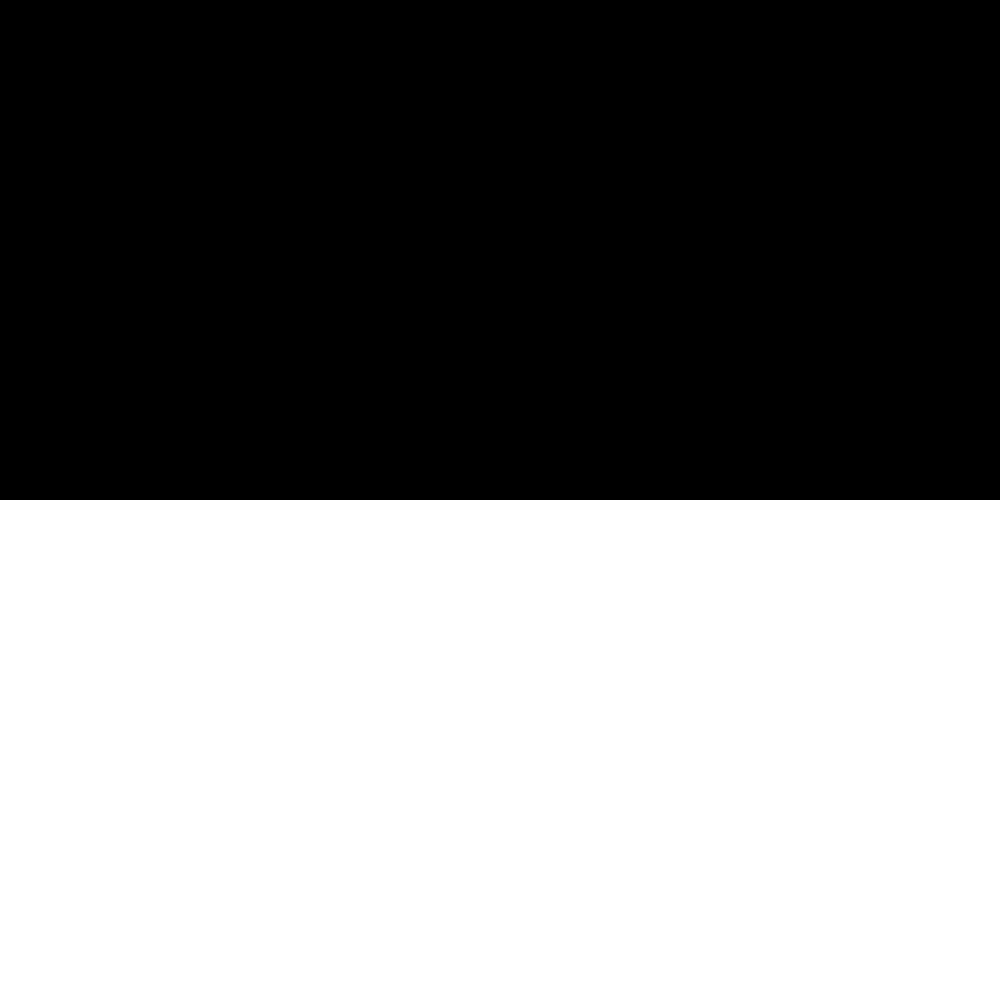
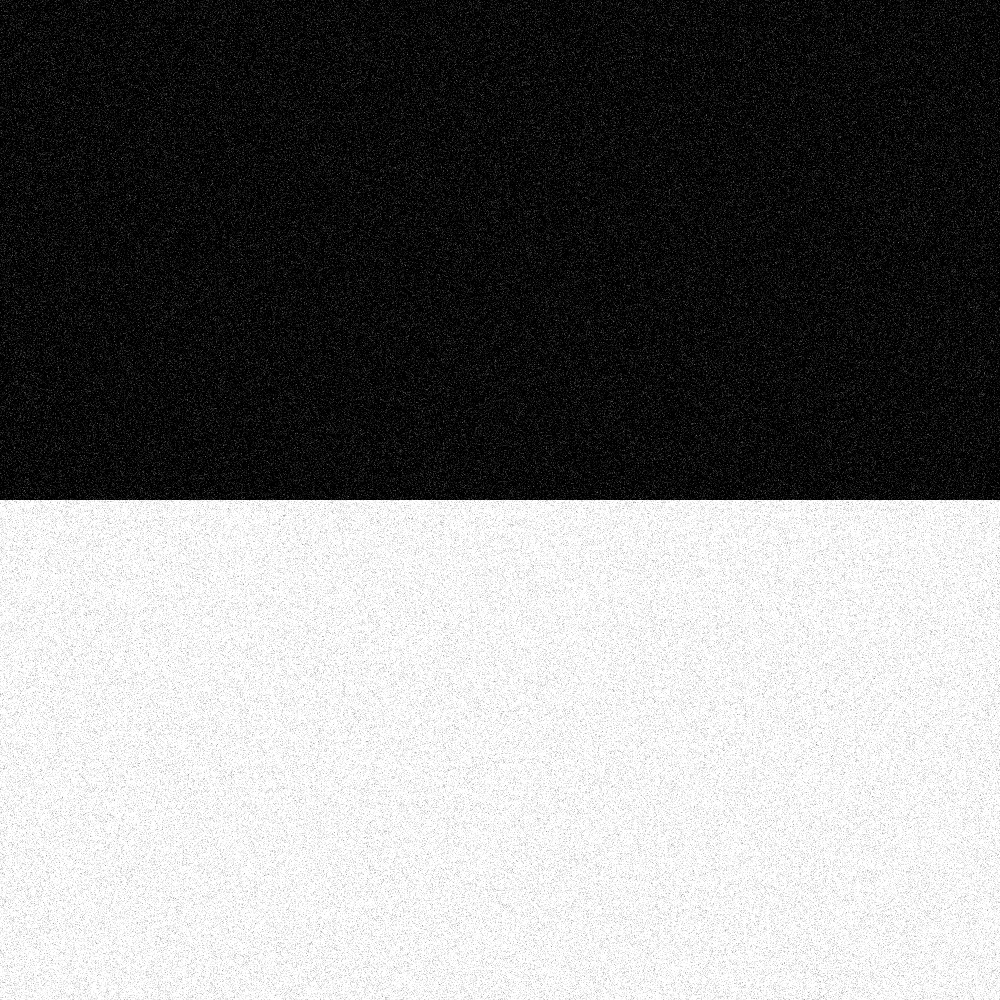
測試圖加noise

Changed region(s): [[0.0, 0.0, 1.0, 1.0]]

diff --git a/test img/sharp.py b/test img/sharp.py
@@ -6,9 +6,9 @@ img = cv2.imread("test_grid.jpg")
 
 I = img.copy()
 I = cv2.cvtColor(I, cv2.COLOR_BGR2GRAY).astype('float64')
-gamma=0.5
+gamma = 0.5
 invGamma = 1.0 / gamma
-I = np.array(((I / 255.0) ** invGamma) * 255) # linearized
+I = np.array(((I / 255.0) ** invGamma) * 255)  # linearized
 
 # I = np.ones([4,4])
 # I[1:3,1:3] = 0
@@ -57,8 +57,8 @@ aby = np.abs(sobely)  # 取sobely絕對值
 
 laplace_filter = np.array([
     [-1, -2, -1],
-    [ 0,  0,  0,],
-    [ 1,  2,  1,]
+    [0,  0,  0, ],
+    [1,  2,  1, ]
 ])
 
 
@@ -71,15 +71,29 @@ print(g.var())
 # sobel5x = cv2.getDerivKernels(2, 0, 3)
 # print(np.outer(sobel5x[0], sobel5x[1]))
 
-img = np.zeros([1000,1000])
+img = np.zeros([1000, 1000])
 
 # for i in range(0,10,2):
 #     img[i*100:(i+1)*100] = 255
 
 img[500:, :] = 255
 
-cv2.imshow('img', img)
+mean = 0
+sigma = 0.1
+# int -> float (標準化)
+img = img / 255
+# 隨機生成高斯 noise (float + float)
+noise = np.random.normal(mean, sigma, img.shape)
+# noise + 原圖
+gaussian_out = img + noise
+# 所有值必須介於 0~1 之間，超過1 = 1，小於0 = 0
+gaussian_out = np.clip(gaussian_out, 0, 1)
+
+# 原圖: float -> int (0~1 -> 0~255)
+gaussian_out = np.uint8(gaussian_out*255)
+
+cv2.imshow('img', gaussian_out)
 cv2.waitKey(0)
 cv2.destroyAllWindows()
 
-cv2.imwrite('test_grid2.jpg', img)
+cv2.imwrite('test_grid2.jpg', gaussian_out)
